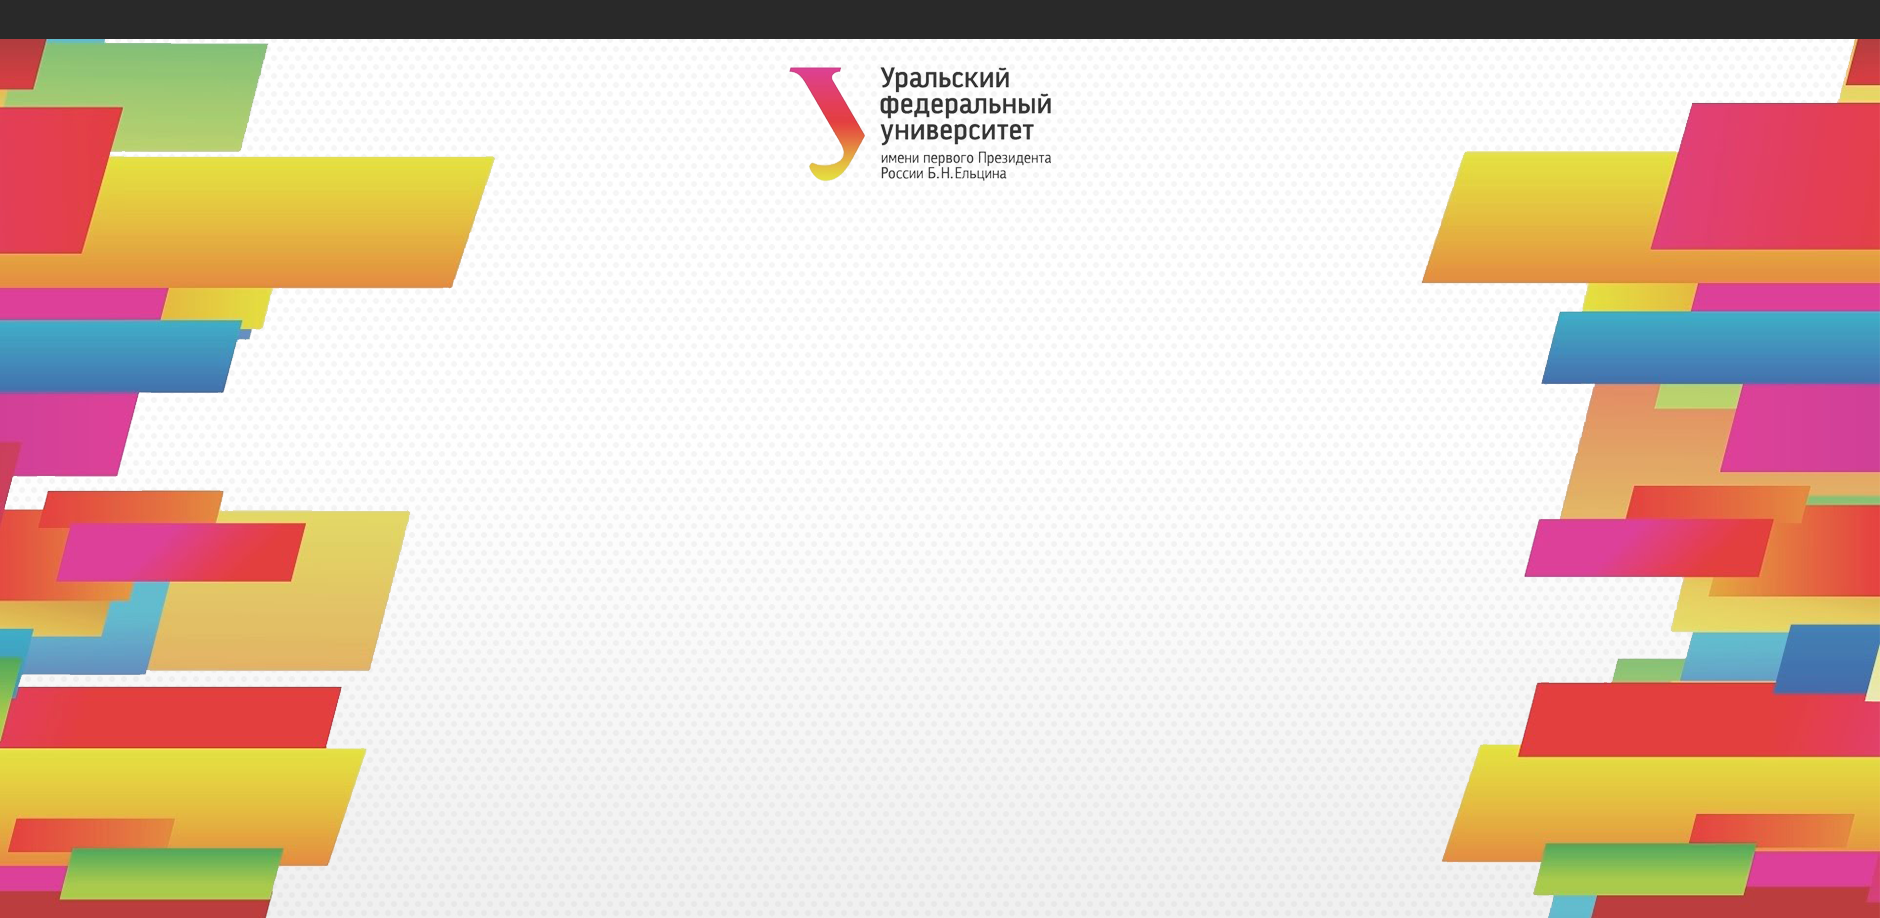
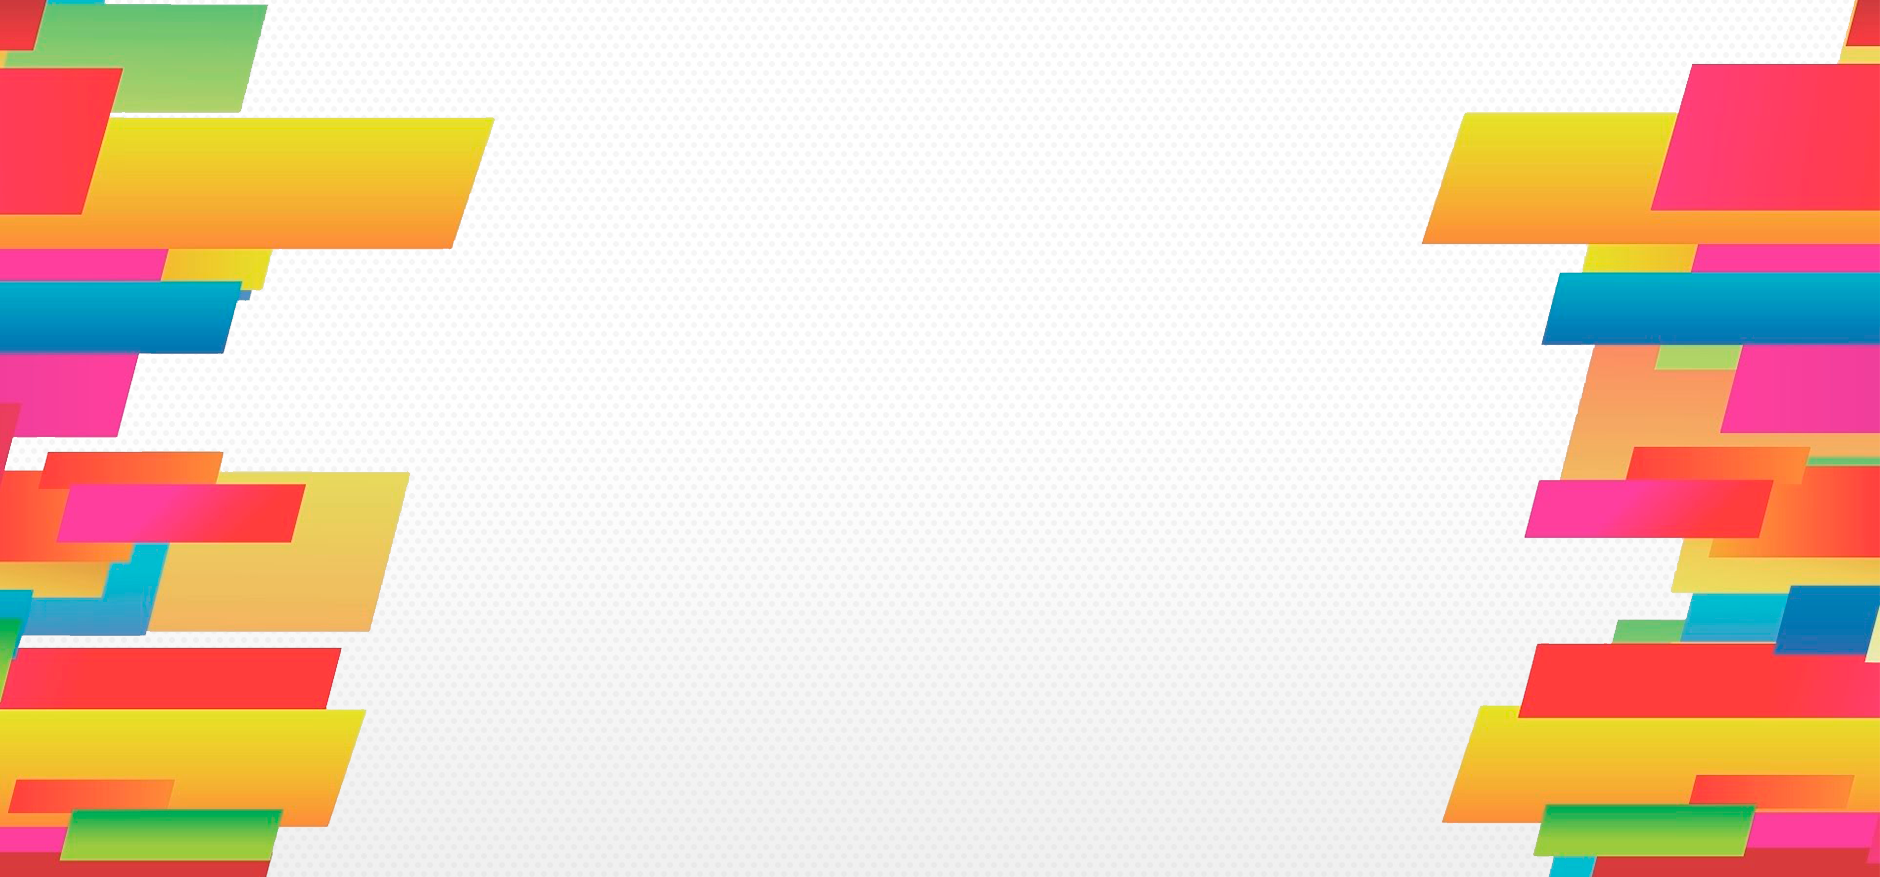
edit files 1

Changed region(s): [[0.0, 0.0, 1.0, 1.0]]

diff --git a/UCsite/www/reg.html b/UCsite/www/reg.html
@@ -1,0 +1,17 @@
+<!DOCTYPE html>
+<html lang="ru" dir="ltr">
+  <head>
+    <meta charset="utf-8" http-equiv="content-type" content="text/html">
+    <meta name="viewport" content=".user-scalable=yes, width=device-width, initial-scale=1.0, maximus-scale=1.0">
+    <meta name="keywords" content="урфу, urfu, уральский, федеральный, университет, urfucommunicate">
+    <meta name="description" content="Сайт для удобной коммуникации между студентами и преподавателями">
+    <link rel="stylesheet" type="text/css" href="css/regStyle.css">
+    <link rel="shortcut icon" type="image/x-icon"  href="#">
+    <title>URFUCommunicate</title>
+  </head>
+  <body>
+    <div><h1>Осталось совсем немного...</h1></div>
+    <p>Заполните небольшую анкету, чтобы пользоваться сайтом</p>
+
+  </body>
+</html>

diff --git a/UCsite/www/css/regStyle.css b/UCsite/www/css/regStyle.css
@@ -1,0 +1,37 @@
+@charset "UTF-8";
+@font-face {
+   font-family: 'Open Sans Light';
+   font-style: normal;
+   font-weight: normal;
+   src:url('opensanslight.woff') format('woff');
+ }
+
+*{
+  text-decoration: none;
+  margin: 0;
+  padding: 0;
+  outline: none;
+}
+
+html{height: 100%}
+
+body{
+  width:100%;
+  height:100%;
+  background-image: url(../image/AuthBack.png);
+  background-repeat: no-repeat;
+  background-size: cover;
+  background-attachment: fixed;
+  float:left;
+  font-family: 'Open Sans Light',sans-serif;
+  text-align: center;
+}
+
+div > h1 {
+ text-align: center;
+ margin-top: 10%;
+}
+
+p{
+  margin-top: 1%;
+}

diff --git a/UCsite/www/authorizeStudent.html b/UCsite/www/authorizeStudent.html
@@ -9,6 +9,7 @@
     <title>URFUCommunicate</title>
   </head>
   <body>
+    <img src="image/logo.png" alt="Уральский федеральный университет">
     <div class="AuthForm">
     <form class="auth" action="authorize.html" method="post" name="auth">
       <div><input required autocomplete="off" type="email" name="email" placeholder="Введите адрес электронной почты"></div>

diff --git a/UCsite/www/css/AuthStyle.css b/UCsite/www/css/AuthStyle.css
@@ -20,7 +20,7 @@ body{
   height:100%;
   background-image: url(../image/AuthBack.png);
   background-repeat: no-repeat;
-  background-size: cover;
+  background-size: 100% 100%;
   float:left;
 }
 /* общие стили*/
@@ -41,6 +41,12 @@ a:hover{
 }
 
 /* форма регистрации */
+ img{
+   position: fixed;
+   left:46%;
+   top:5%;
+
+ }
 
 .AuthForm{
   height:200px;
